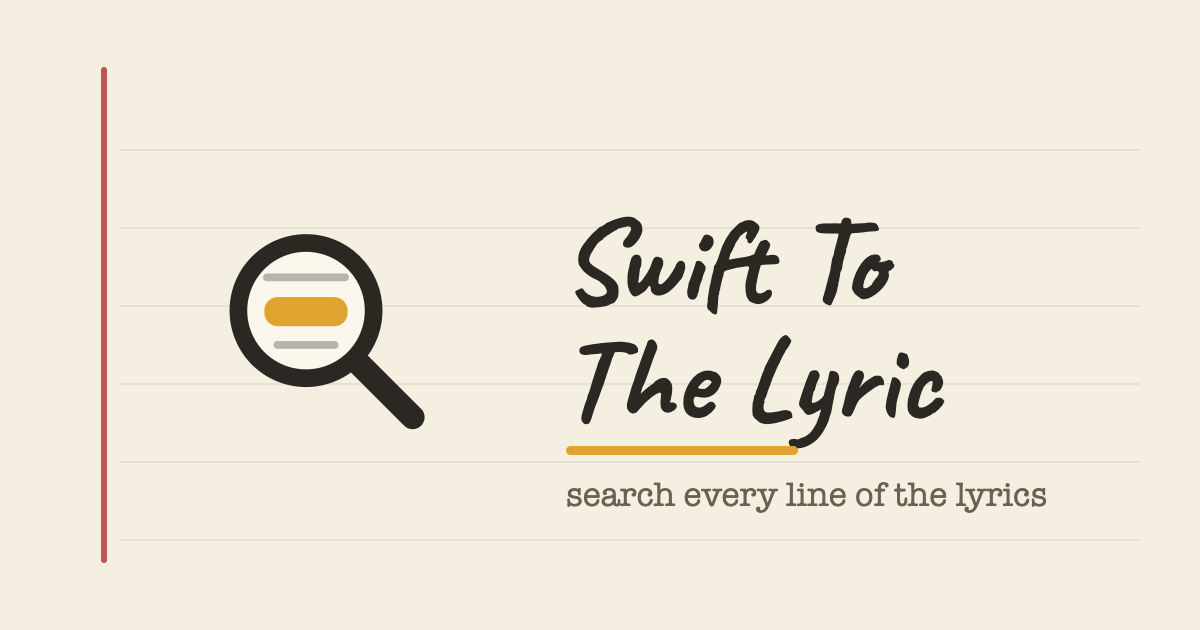
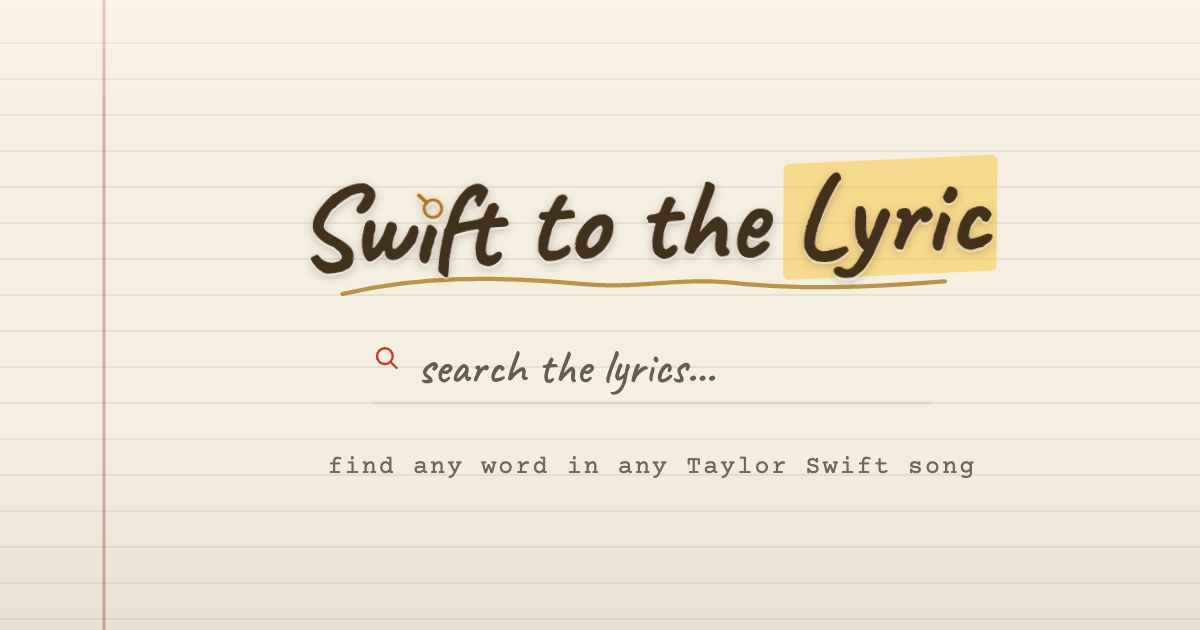
Redraw the searcher's link-preview card to match the game's
Swift to the Lyric's social card had the same problems the game's did: "Swift To The Lyric"
set in plain ink with every word capitalised, none of the searcher's own masthead treatment,
and a layout that no longer looked like either page.

It now sits beside the game card as a sibling. Same ruled page and red margin, same rules for
spacing: every line of ink set on a ruling, the column centred on the paper right of the
margin, and equal space above and below. The wordmark is the searcher's real masthead,
measured off search.css rather than retyped: one desk-brown ink, the gold highlighter swipe
behind "Lyric", the magnifier ring dotting the i and its shorter swash. Where the game card
hangs its bracelet, this one has the searcher's own field, the red-pen magnifier and "search
the lyrics..." in the hand on its pale rule, which is the first thing anyone sees on the page
and keeps any lyric off the card. The tagline underneath is "find any word in any Taylor
Swift song".

The link text moves with it: the title, twitter title and site name drop the capitals, the
description becomes "Find any word in any Taylor Swift song, with the section and line it's
sung in.", and the alt text describes the new picture. Both search/index.html and the card
itself are precached, so CACHE moves to stta-v418.

Changed region(s): [[0.185, 0.2413, 0.8942, 0.8143], [0.0, 0.0905, 1.0, 1.0]]

diff --git a/search/index.html b/search/index.html
@@ -52,17 +52,17 @@
 
 <!-- Open Graph / social preview -->
 <meta property="og:type" content="website" />
-<meta property="og:site_name" content="Swift To The Lyric" />
-<meta property="og:title" content="Swift To The Lyric" />
-<meta property="og:description" content="Search every line of Taylor Swift's lyrics. See every song a word appears in, with the section and line." />
+<meta property="og:site_name" content="Swift to the Lyric" />
+<meta property="og:title" content="Swift to the Lyric" />
+<meta property="og:description" content="Find any word in any Taylor Swift song, with the section and line it's sung in." />
 <meta property="og:url" content="https://swiftassociation.com/search/" />
 <meta property="og:image" content="https://swiftassociation.com/icons/og-image-search.png" />
 <meta property="og:image:width" content="1200" />
 <meta property="og:image:height" content="630" />
-<meta property="og:image:alt" content="Swift To The Lyric: a magnifying glass over a highlighted lyric on ruled notebook paper." />
+<meta property="og:image:alt" content="Swift to the Lyric, handwritten on ruled notebook paper above an empty search box." />
 <meta name="twitter:card" content="summary_large_image" />
-<meta name="twitter:title" content="Swift To The Lyric" />
-<meta name="twitter:description" content="Search every line of Taylor Swift's lyrics. See every song a word appears in, with the section and line." />
+<meta name="twitter:title" content="Swift to the Lyric" />
+<meta name="twitter:description" content="Find any word in any Taylor Swift song, with the section and line it's sung in." />
 <meta name="twitter:image" content="https://swiftassociation.com/icons/og-image-search.png" />
 
 <!-- PWA -->

diff --git a/sw.js b/sw.js
@@ -42,7 +42,7 @@
  * Paths are relative so the worker works at the site root (swiftassociation.com)
  * and under any project subpath, without hardcoding the origin.
  */
-const CACHE = "stta-v417";
+const CACHE = "stta-v418";
 const GUEST_CACHE = "stta-guests";
 const guestRoot = new URL("data/guests/", self.registration.scope);
 const isGuest = (url) => url.origin === guestRoot.origin &&
